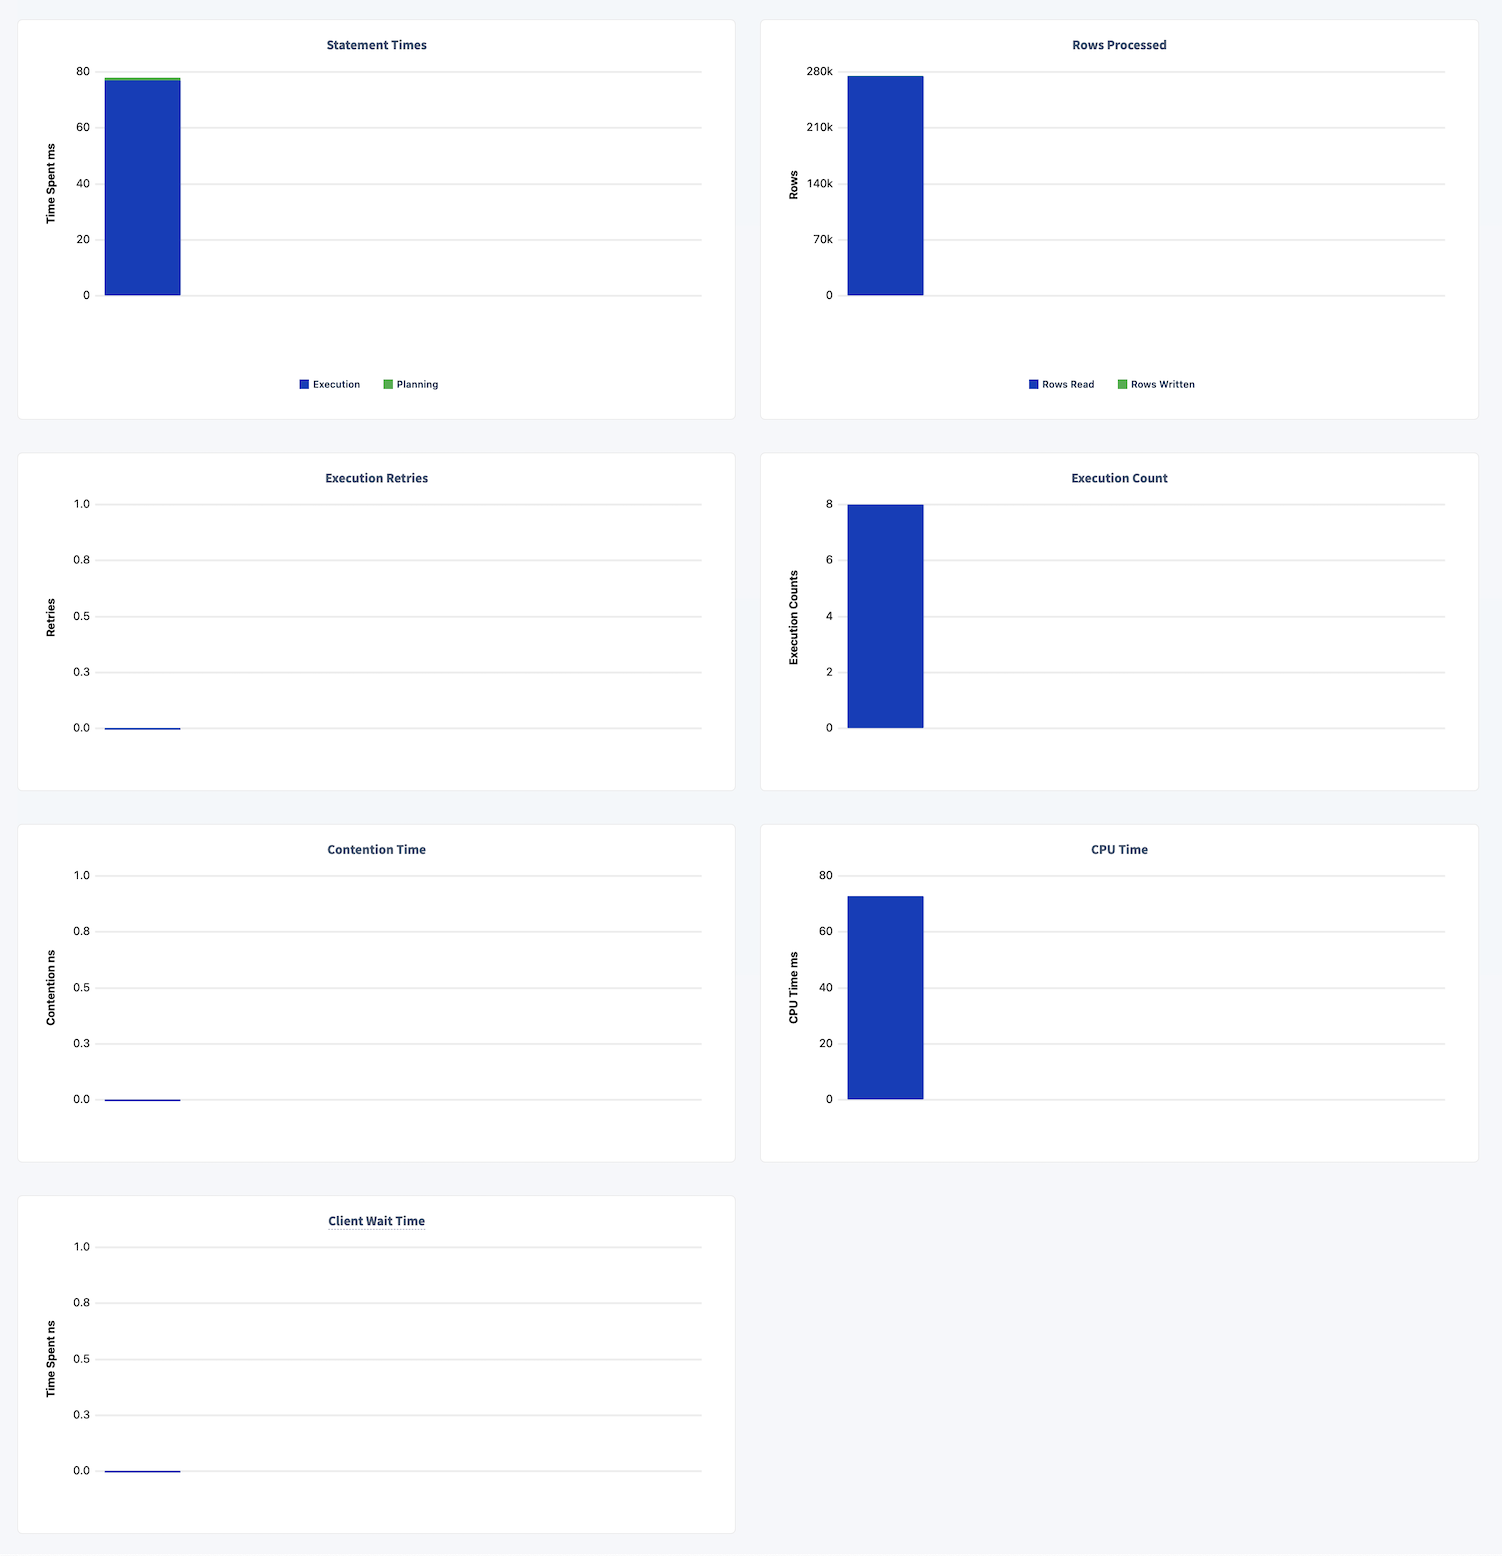
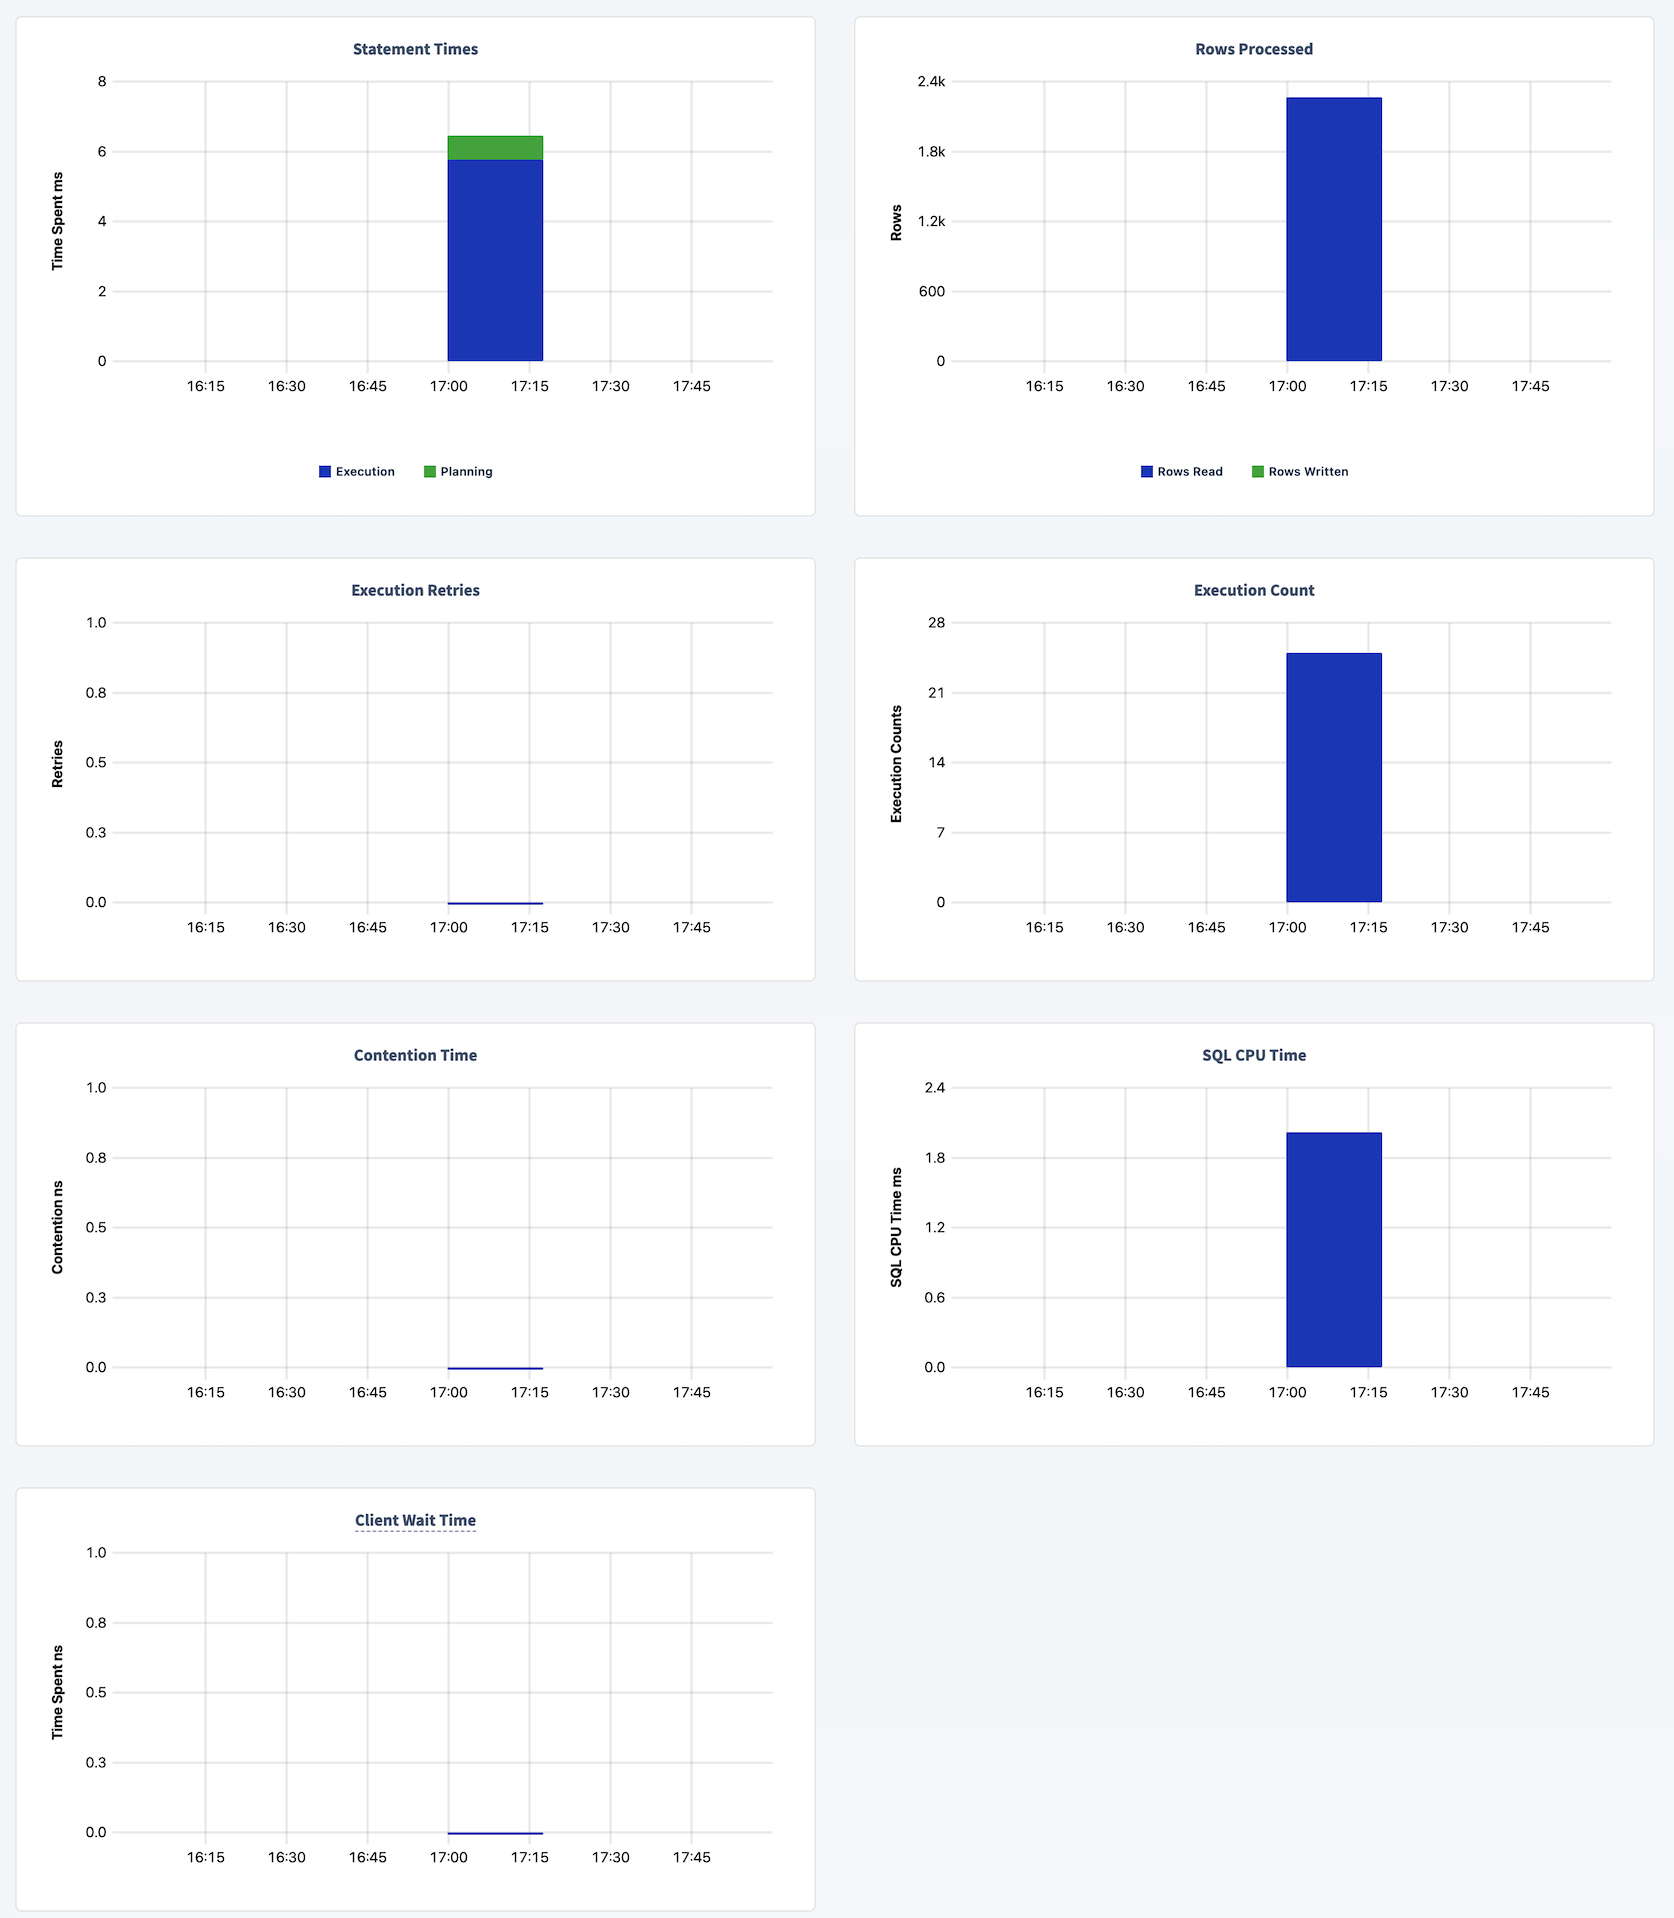
In ui-statements-page.md, replaced CPU Time with SQL CPU Time in text and images.

diff --git a/src/current/_includes/v24.1/ui/statements-table.md b/src/current/_includes/v24.1/ui/statements-table.md
@@ -13,7 +13,7 @@ Application Name | The name specified by the [`application_name`]({{ link_prefix
 Statement Time | Average [planning and execution time]({{ link_prefix }}architecture/sql-layer.html#sql-parser-planner-executor) of statements with this statement fingerprint within the time interval. <br><br>The gray bar indicates the mean latency. The blue bar indicates one standard deviation from the mean. Hover over the bar to display exact values.
 <a id="percent-of-all-runtime"></a>% of All Runtime | The percentage of execution time taken by this statement fingerprint compared to all other statements executed within the time period, including those not displayed. Runtime is calculated as the mean execution latency multiplied by the execution count.<br><br><b>Note:</b> The sum of the values in this column may not equal 100%. Each fingerprint's percentage is calculated by dividing the fingerprint's runtime by the sum of the runtimes for all statement fingerprints in the time interval. "All statement fingerprints" means all user statement fingerprints (not only those displayed by the [search criteria](#search-criteria)), as well as internal statement fingerprints that are never included in the displayed result set. The search criteria are applied after the `% of All Runtime` calculation.
 Contention Time | Average time statements with this fingerprint were [in contention]({{ link_prefix }}performance-best-practices-overview.html#understanding-and-avoiding-transaction-contention) with other transactions within the time interval.<br><br>The gray bar indicates mean contention time. The blue bar indicates one standard deviation from the mean. Hover over the bar to display exact values.
-CPU Time | Average CPU time spent executing within the specified time interval. The gray bar indicates mean CPU time. The blue bar indicates one standard deviation from the mean. <br><br>The CPU time includes time spent in the [SQL layer]({{ link_prefix }}architecture/sql-layer.html). It does not include time spent in the [storage layer]({{ link_prefix }}architecture/storage-layer.html).
+SQL CPU Time | Average SQL CPU time spent executing within the specified time interval. It does not include SQL planning time nor KV execution time. The gray bar indicates mean SQL CPU time. The blue bar indicates one standard deviation from the mean. <br><br>The SQL CPU time includes time spent in the [SQL layer]({{ link_prefix }}architecture/sql-layer.html). It does not include time spent in the [storage layer]({{ link_prefix }}architecture/storage-layer.html).
 P50 Latency | The 50th latency percentile for sampled statement executions with this fingerprint.
 P90 Latency | The 90th latency percentile for sampled statement executions with this fingerprint.
 P99 Latency | The 99th latency percentile for sampled statement executions with this fingerprint.

diff --git a/src/current/_includes/v24.1/ui/statement-details.md b/src/current/_includes/v24.1/ui/statement-details.md
@@ -30,7 +30,7 @@ The **Overview** section also displays the SQL statement fingerprint statistics 
 |**Execution Retries** | The number of [retries]({{ link_prefix }}transactions.html#transaction-retries). |
 |**Execution Count** | The total number of executions. It is calculated as the sum of first attempts and retries. |
 |**Contention Time** | The amount of time spent waiting for resources. For more information about contention, see [Understanding and avoiding transaction contention]({{ link_prefix }}performance-best-practices-overview.html#understanding-and-avoiding-transaction-contention). |
-|**CPU Time** | The amount of CPU time spent executing the statement. The CPU time represents the time spent and work done within SQL execution operators. |
+|**SQL CPU Time** | The amount of SQL CPU time spent executing the statement. The SQL CPU time represents the time spent and work done within SQL execution operators. It does not include SQL planning time nor KV execution time. |
 |**Client Wait Time** | The time spent waiting for the client to send the statement while holding the transaction open. A high wait time indicates that you should revisit the entire transaction and [batch your statements]({{ link_prefix }}transactions.html#batched-statements). |
 
 The following screenshot shows the statement fingerprint of the query described in [Use the right index]({{ link_prefix }}apply-statement-performance-rules.html#rule-2-use-the-right-index):
@@ -60,7 +60,7 @@ Charts following the execution attributes display statement fingerprint statisti
 |**Execution Retries** | The number of [retries]({{ link_prefix }}transactions.html#transaction-retries). |
 |**Execution Count** | The total number of executions. It is calculated as the sum of first attempts and retries. |
 |**Contention Time** | The amount of time spent waiting for resources. For more information about contention, see [Understanding and avoiding transaction contention]({{ link_prefix }}performance-best-practices-overview.html#understanding-and-avoiding-transaction-contention). |
-|**CPU Time** | The amount of CPU time spent executing the statement. The CPU time represents the time spent and work done within SQL execution operators. |
+|**SQL CPU Time** | The amount of SQL CPU time spent executing the statement. The SQL CPU time represents the time spent and work done within SQL execution operators. It does not include SQL planning time nor KV execution time. |
 |**Client Wait Time** | The time spent waiting for the client to send the statement while holding the transaction open. A high wait time indicates that you should revisit the entire transaction and [batch your statements]({{ link_prefix }}transactions.html#batched-statements). |
 
 The following charts summarize the executions of the statement fingerprint illustrated in [Overview](#overview):

diff --git a/src/current/_includes/v24.1/ui/statements-filter.md b/src/current/_includes/v24.1/ui/statements-filter.md
@@ -7,7 +7,7 @@ The statement fingerprints returned are determined by the selected **Search Crit
 By default, the **Top** `100` statement fingerprints **By** [`% of All Runtime`](#percent-of-all-runtime) for the `Past Hour` are returned.
 
 1. To change the number of results returned, select `25`, `50`, `100`, or `500` from the **Top** dropdown. To return a larger number, select `More` and choose an option: `1000`, `5000`, `10000`.
-1. To change the sort column, from the **By** dropdown, select a commonly sorted column: `% of All Runtime`, `CPU Time`, `Contention Time`, `Execution Count`, `P99 Latency`, `Statement Time`. To sort by other columns, select `More` from the dropdown and choose an option: `Last Execution Time`, `Max Latency`,`Max Memory`, `Min Latency`, `Network`, `P50 Latency`, `P90 Latency`, `Retries`, `Rows Processed`.
+1. To change the sort column, from the **By** dropdown, select a commonly sorted column: `% of All Runtime`, `SQL CPU Time`, `Contention Time`, `Execution Count`, `P99 Latency`, `Statement Time`. To sort by other columns, select `More` from the dropdown and choose an option: `Last Execution Time`, `Max Latency`,`Max Memory`, `Min Latency`, `Network`, `P50 Latency`, `P90 Latency`, `Retries`, `Rows Processed`.
 {{site.data.alerts.callout_info}}
 The `More` options may increase the page loading time and are not generally recommended.
 {{site.data.alerts.end}}
